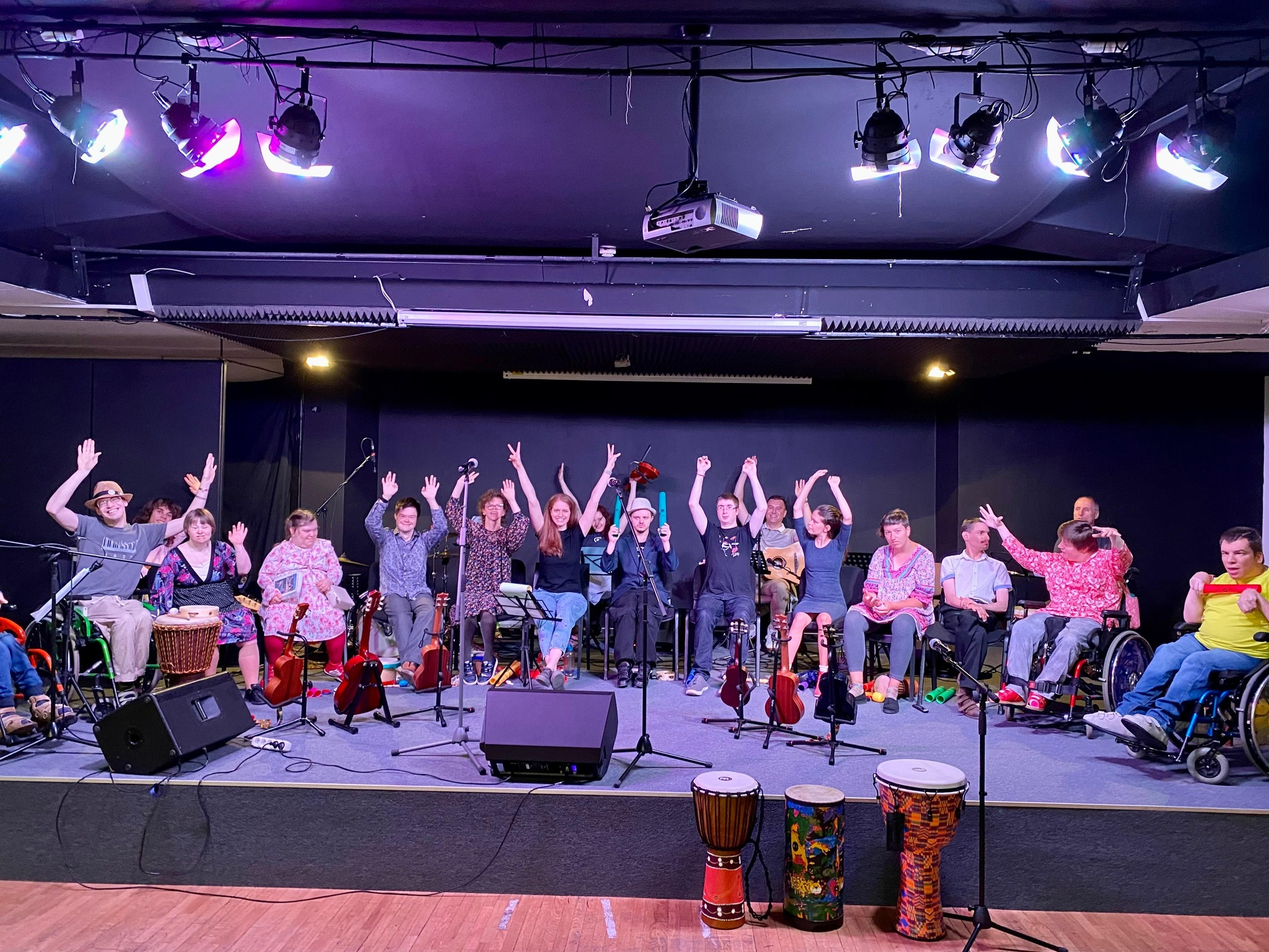
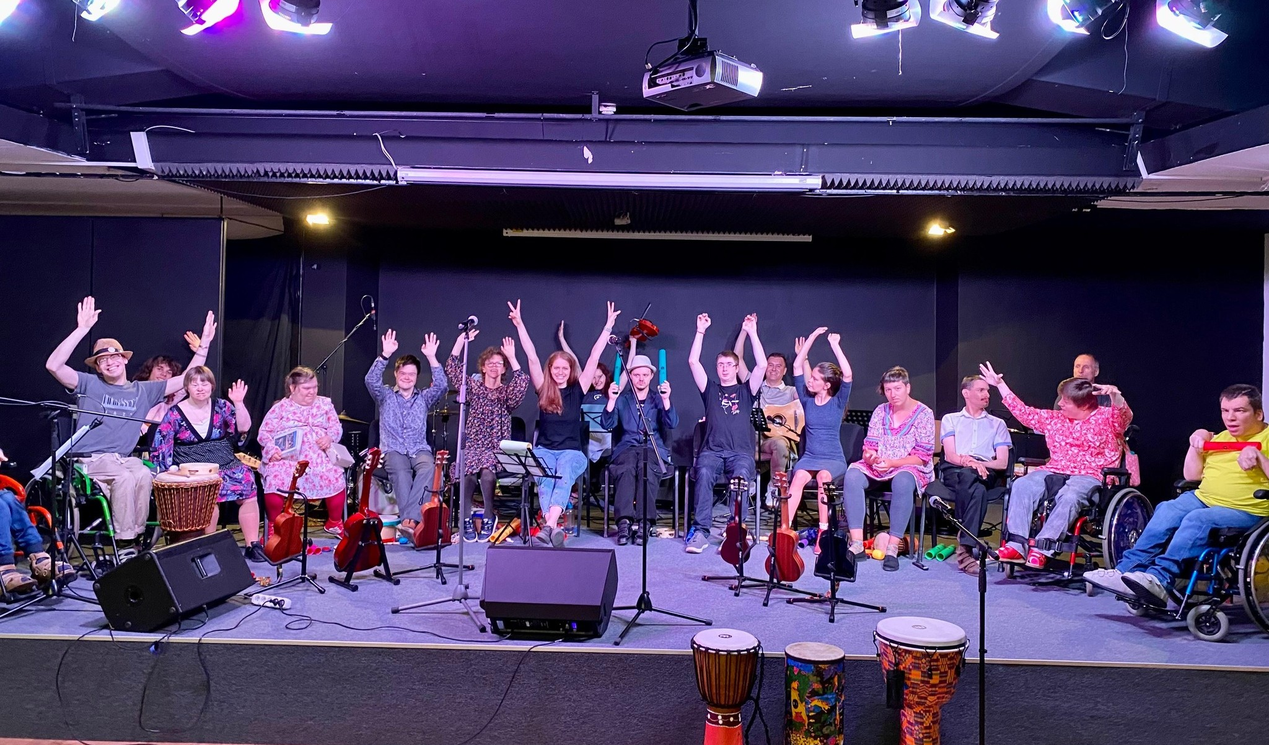
úprava footer, kalendár

diff --git a/Votum_Viki/web/resources/views/components/calendar.blade.php b/Votum_Viki/web/resources/views/components/calendar.blade.php
@@ -48,7 +48,6 @@
     // Events data
     const events = [
         { date: '2025-08-09', title: 'Koncert', description: 'Letný hudobný večer' },
-        { date: '2025-08-20', title: 'Výšľapenie', description: 'Turistika v Malej Fatre' },
         { date: '2025-08-29', title: 'Tábor', description: 'Letný detský tábor' },
         { date: '2025-09-15', title: 'Konferencia', description: 'Mladí lídri 2025' },
         { date: '2025-10-05', title: 'Workshop', description: 'Osobnostný rozvoj' }
@@ -61,7 +60,6 @@
         'Júl', 'August', 'September', 'Október', 'November', 'December'
     ];
 
-    // Function to generate calendar
     function generateCalendar(year, month) {
         const firstDay = new Date(year, month, 1);
         const lastDay = new Date(year, month + 1, 0);
@@ -84,7 +82,7 @@
         // Add days of month
         for (let day = 1; day <= daysInMonth; day++) {
             const dayCell = document.createElement('div');
-            dayCell.className = 'calendar-day text-center p-2 bg-white rounded';
+            dayCell.className = 'calendar-day text-center p-1 bg-white rounded';
             dayCell.textContent = day;
 
             // Check if this day has an event
@@ -111,31 +109,25 @@
         const currentMonth = currentDate.getMonth();
         const currentYear = currentDate.getFullYear();
 
-        const filteredEvents = events.filter(event => {
-            const eventDate = new Date(event.date);
-            return eventDate >= new Date(currentYear, currentMonth, 1);
-        }).sort((a, b) => new Date(a.date) - new Date(b.date));
-
         // Display up to 5 upcoming events
-        filteredEvents.slice(0, 5).forEach(event => {
+        const sortedEvents = events.sort((a, b) => new Date(a.date) - new Date(b.date));
+
+        sortedEvents.forEach(event => {
             const eventDate = new Date(event.date);
             const eventDiv = document.createElement('div');
             eventDiv.className = 'bg-votum-cream p-4 rounded-lg flex justify-between items-center';
             eventDiv.innerHTML = `
-                    <div>
-                        <h4 class="font-bold text-votum-blue">${eventDate.getDate()}.${eventDate.getMonth() + 1}. ${event.title}</h4>
-                        <p class="text-sm text-gray-600">${event.description}</p>
-                    </div>
-                    <button class="bg-white px-4 py-2 rounded hover-scale text-votum-blue font-semibold">
-                        Viac<i class="pl-2 fas fa-arrow-right"></i>
-                    </button>
-                `;
+                <div>
+                    <h4 class="font-bold text-votum-blue">${eventDate.getDate()}.${eventDate.getMonth() + 1}. ${event.title}</h4>
+                    <p class="text-sm text-gray-600">${event.description}</p>
+                </div>
+                <button class="bg-white px-4 py-2 rounded hover-scale text-votum-blue font-semibold">
+                    Viac<i class="pl-2 fas fa-arrow-right"></i>
+                </button>
+            `;
             eventsList.appendChild(eventDiv);
         });
 
-        if (filteredEvents.length === 0) {
-            eventsList.innerHTML = '<p class="text-gray-600 text-center py-4">Žiadne nadchádzajúce udalosti</p>';
-        }
     }
 
     // Event listeners for month navigation

diff --git a/Votum_Viki/web/resources/views/components/footer.blade.php b/Votum_Viki/web/resources/views/components/footer.blade.php
@@ -1,15 +1,15 @@
 <!-- Footer -->
-<footer class="bg-votum-blue text-white py-10">
-    <div class="container mx-auto px-4">
+<footer class="bg-votum-blue text-white pt-5 pb-10">
+    <div class="container mx-auto ">
         <!-- Top Section: Organization Name and Social Media -->
-        <div class="text-center mb-8 pb-8 border-b border-blue-400">
+        <div class="text-center mb-8 pb-8 pt-5 bg-blue-950">
             <h3 class="text-3xl font-bold mb-4">VOTUM</h3>
             <div class="flex justify-center gap-6">
-                <a href="#" class="flex items-center gap-2 hover:opacity-80 transition" aria-label="Facebook">
-                    <i class="fab fa-facebook text-3xl"></i>
+                <a href="#" class="flex text-blue-300 items-center gap-2 hover:opacity-80 transition" aria-label="Facebook">
+                    <i class="fab fa-facebook text-3xl "></i>
                     <span class="text-lg">Facebook</span>
                 </a>
-                <a href="#" class="flex items-center gap-2 hover:opacity-80 transition" aria-label="YouTube">
+                <a href="#" class="flex items-center gap-2 hover:opacity-80 transition text-red-300" aria-label="YouTube">
                     <i class="fab fa-youtube text-3xl"></i>
                     <span class="text-lg">YouTube</span>
                 </a>
@@ -17,10 +17,10 @@
         </div>
 
         <!-- Bottom Section: Navigation Links and Contact Info -->
-        <div class="grid md:grid-cols-2 gap-8 mb-8">
+        <div class="grid md:grid-cols-2 gap-8 ">
             <!-- Left Half: Navigation Links in Two Columns -->
             <div>
-                <h4 class="text-xl font-bold mb-4">Navigácia</h4>
+                <h4 class="text-xl font-bold mb-4 text-blue-300">Navigácia</h4>
                 <div class="grid grid-cols-2 gap-4">
                     <!-- Left Column -->
                     <div class="space-y-2">
@@ -53,13 +53,13 @@
             </div>
 
             <!-- Right Half: Contact and Accessibility -->
-            <div>
-                <h4 class="text-xl font-bold mb-4">Našli ste chybu?</h4>
+            <div class="md:text-right ">
+                <h4 class="text-xl font-bold mb-4 text-blue-300">Našli ste chybu?</h4>
                 <div class="space-y-3">
                     <p class="text-sm">
                         <i class="fas fa-envelope mr-2"></i>
                         <a href="mailto:admin@zdravieznevyhodnenie.sk" class="hover:opacity-80 transition underline">
-                            admin@zdravieznevyhodnenie.sk
+                            admin@zdruzenievotum.sk
                         </a>
                     </p>
                     <div class="mt-4">
@@ -70,11 +70,6 @@
                     </div>
                 </div>
             </div>
-        </div>
-
-        <!-- Copyright -->
-        <div class="border-t border-blue-400 pt-6 text-center text-sm">
-            <p>&copy; 2025 VOTUM. Všetky práva vyhradené.</p>
         </div>
     </div>
 </footer>

diff --git a/Votum_Viki/web/resources/views/components/team.blade.php b/Votum_Viki/web/resources/views/components/team.blade.php
@@ -3,7 +3,7 @@
     <div class="container mx-auto px-4">
         <h2 class="text-3xl font-bold text-votum-blue mb-8 text-center">Náš tím</h2>
 
-        <div class="max-w-4xl mx-auto">
+        <div class="max-w-3xl mx-auto">
             <div class="rounded-lg overflow-hidden shadow-lg mb-8">
                 <img src="{{asset('images/team.jpg')}}" alt="Náš tím" class="w-full h-auto object-cover">
             </div>
